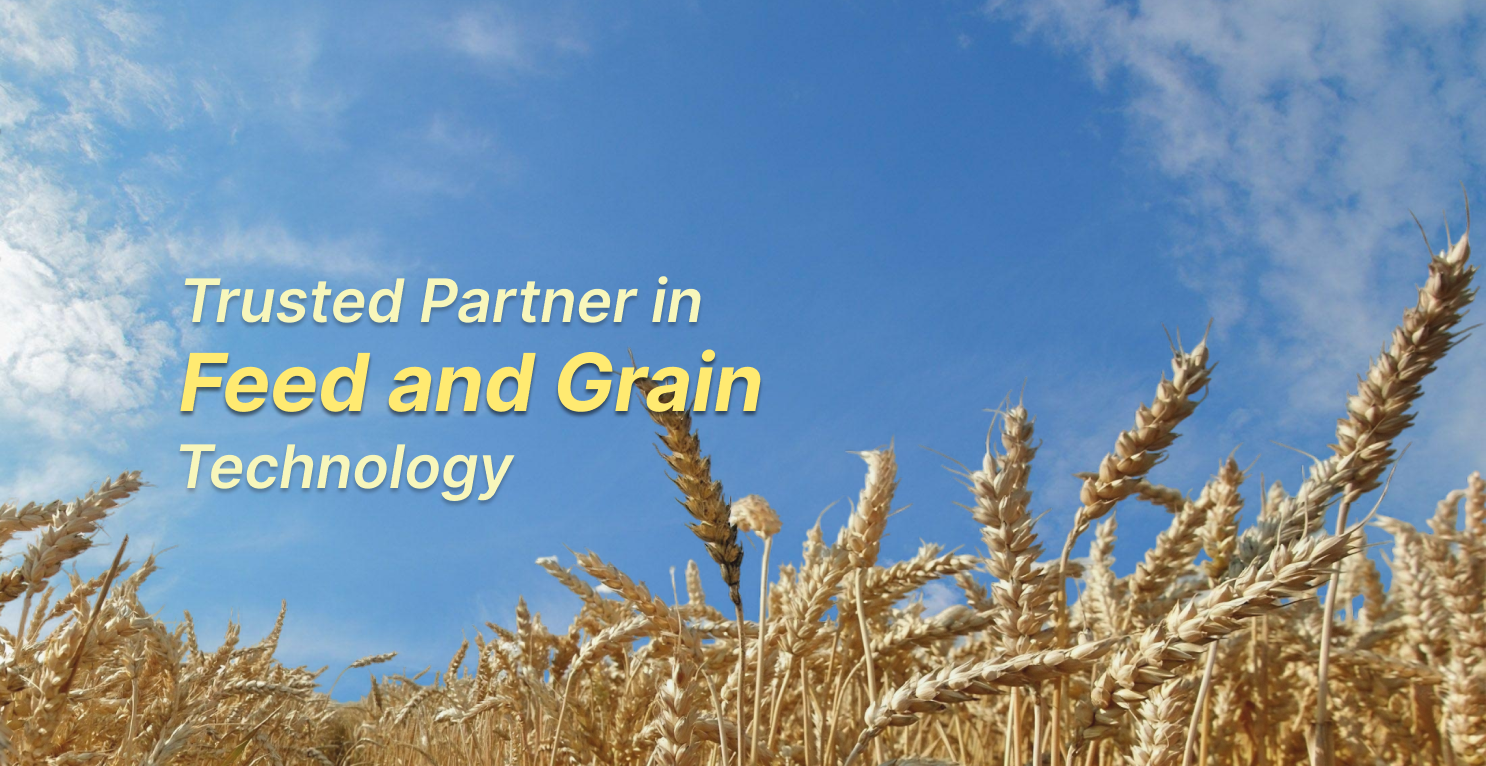
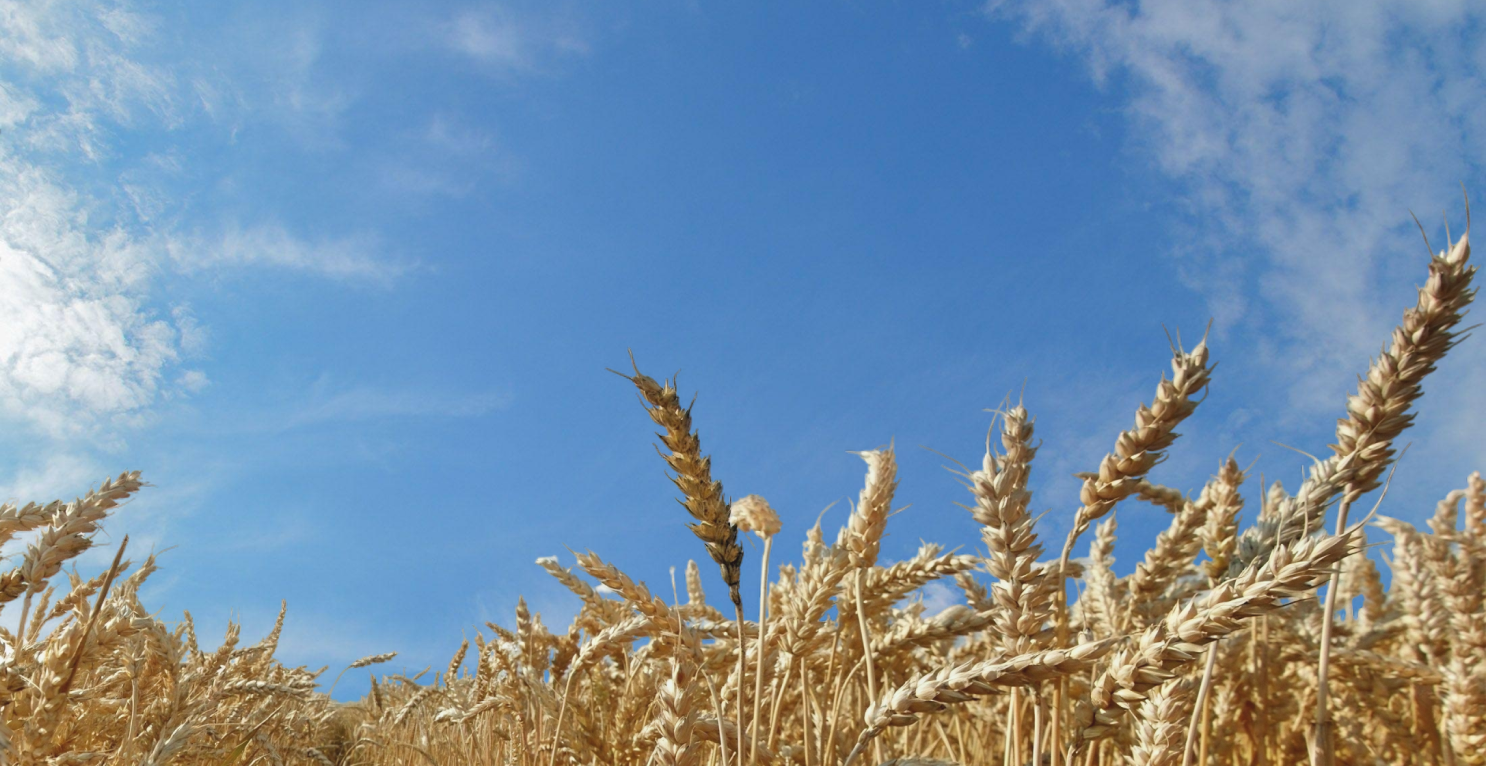
update: carousel text

Changed region(s): [[0.1238, 0.4504, 0.5262, 0.5405], [0.1238, 0.3603, 0.4953, 0.4504], [0.1238, 0.5705, 0.3405, 0.6606]]

diff --git a/frontend-frontec/src/components/CarouselBackground.vue b/frontend-frontec/src/components/CarouselBackground.vue
@@ -1,5 +1,5 @@
 <template>
-  <div id="carousel" class="relative h-full">
+  <div id="carousel" class="relative h-full font-inter">
     <div class="overflow-hidden h-full relative">
       <div
         v-for="(slide, index) in slides"
@@ -16,6 +16,24 @@
         }"
       >
         <div class="absolute inset-0 bg-black bg-opacity-10"></div>
+        <!-- Tambahkan tulisan di sini -->
+        <div
+          v-if="slide.text"
+          class="absolute z-10"
+          :class="{
+            'left-10 top-1/4': slide.position === 'left',
+            'right-[150px] top-[300px]': slide.position === 'right',
+          }"
+        >
+          <div
+            v-for="(line, idx) in slide.text"
+            :key="idx"
+            :class="line.classes"
+            :style="{ fontSize: line.size, color: line.color }"
+          >
+            {{ line.text }}
+          </div>
+        </div>
       </div>
     </div>
     <div
@@ -90,9 +108,65 @@ export default {
   data() {
     return {
       slides: [
-        { image: background1 },
-        { image: background2 },
-        { image: background3 },
+        {
+          image: background1,
+          text: [
+            {
+              text: "Trusted Partner in",
+              size: "60px",
+              color: "#F7F6BB",
+              classes:
+                "font-semibold italic text-shadow-md mt-[70px] ml-[150px] leading-none",
+            },
+            {
+              text: "Feed and Grain",
+              size: "80px",
+              color: "#FFEA71",
+              classes:
+                "font-bold italic text-shadow-md mt-3 ml-[150px] leading-none",
+            },
+            {
+              text: "Technology",
+              size: "60px",
+              color: "#F7F6BB",
+              classes:
+                "font-semibold italic text-shadow-md mt-3 ml-[150px] leading-none",
+            },
+          ],
+          position: "left",
+        },
+        {
+          image: background2,
+          text: [
+            {
+              text: "Grain Storage",
+              size: "80px",
+              color: "#F7F6BB",
+              classes: "font-bold italic text-shadow-md",
+            },
+          ],
+          position: "right",
+        },
+        {
+          image: background3,
+          text: [
+            {
+              text: "Feedmill",
+              size: "80px",
+              color: "#F7F6BB",
+              classes:
+                "font-bold italic text-shadow-md ml-[870px] leading-none",
+            },
+            {
+              text: "Equipments",
+              size: "80px",
+              color: "#F7F6BB",
+              classes:
+                "font-bold italic text-shadow-md mt-[10px] ml-[870px] leading-none",
+            },
+          ],
+          position: "right"
+        },
       ],
       currentSlide: 0,
     };
@@ -106,11 +180,11 @@ export default {
         (this.currentSlide - 1 + this.slides.length) % this.slides.length;
     },
   },
-  mounted() {
-    setInterval(() => {
-      this.nextSlide();
-    }, 5000);
-  },
+  // mounted() {
+  //   setInterval(() => {
+  //     this.nextSlide();
+  //   }, 5000);
+  // },
 };
 </script>
 
@@ -126,5 +200,11 @@ export default {
 }
 .opacity-100 {
   opacity: 1;
+}
+.text-shadow-md {
+  text-shadow: 0 4px 6px rgba(0, 0, 0, 0.5);
+}
+.font-inter {
+  font-family: "Inter", sans-serif;
 }
 </style>

diff --git a/frontend-frontec/public/index.html b/frontend-frontec/public/index.html
@@ -1,0 +1,14 @@
+<!-- public/index.html -->
+<!DOCTYPE html>
+<html lang="en">
+<head>
+  <meta charset="UTF-8">
+  <meta name="viewport" content="width=device-width, initial-scale=1.0">
+  <title>Vue Project</title>
+  <link href="https://fonts.googleapis.com/css2?family=Inter:wght@400;600;700&display=swap" rel="stylesheet">
+</head>
+<body>
+  <div id="app"></div>
+  <script type="module" src="/src/main.js"></script>
+</body>
+</html>

diff --git a/frontend-frontec/tailwind.config.js b/frontend-frontec/tailwind.config.js
@@ -6,7 +6,14 @@ export default {
     'node_modules/flowbite/**/*.js',
   ],
   theme: {
-    extend: {},
+    extend: {
+      fontFamily: {
+        inter: ['Inter', 'sans-serif'],
+      },
+      textShadow: {
+        'md': '0 4px 6px rgba(0, 0, 0, 0.1)',
+      },
+    },
   },
   plugins: [
     require('flowbite/plugin'),
